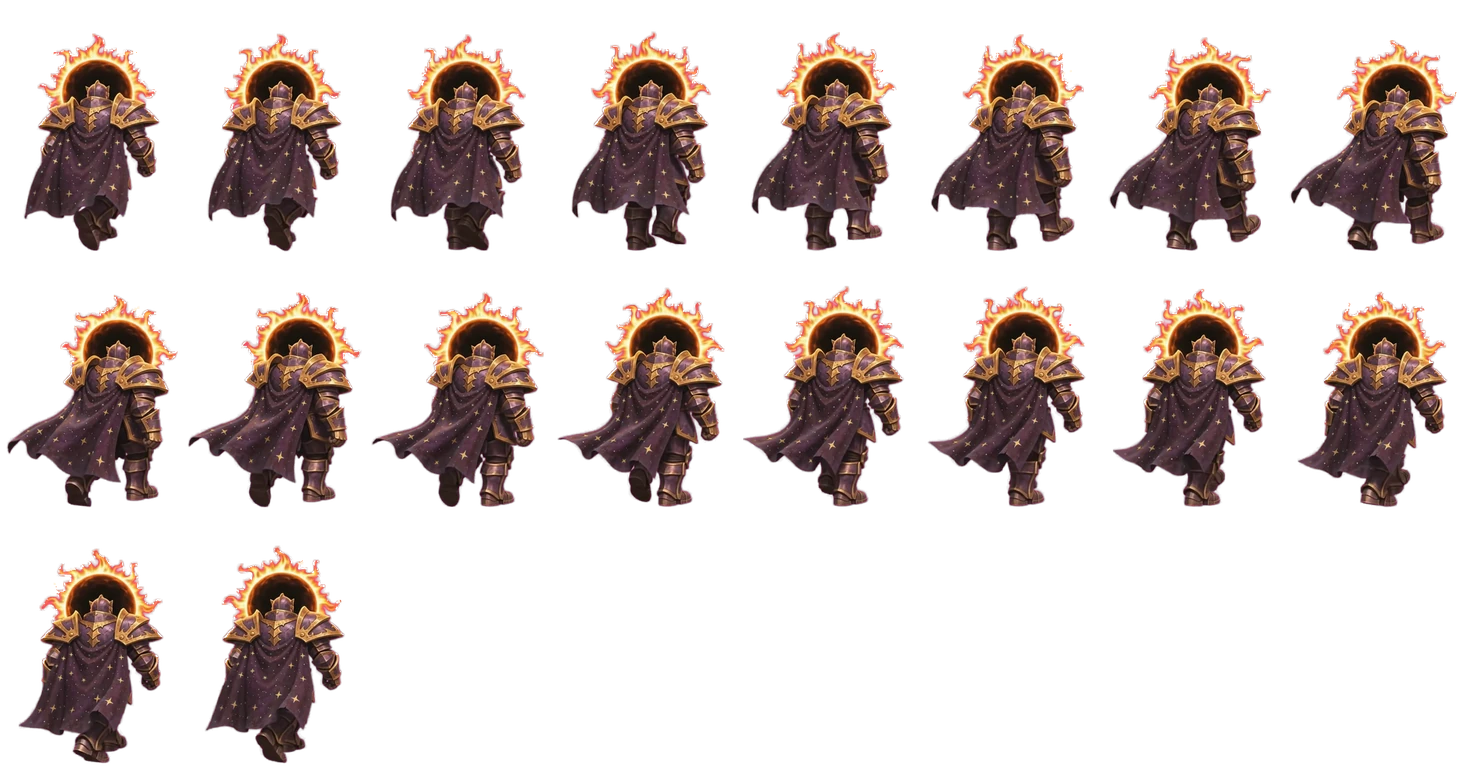
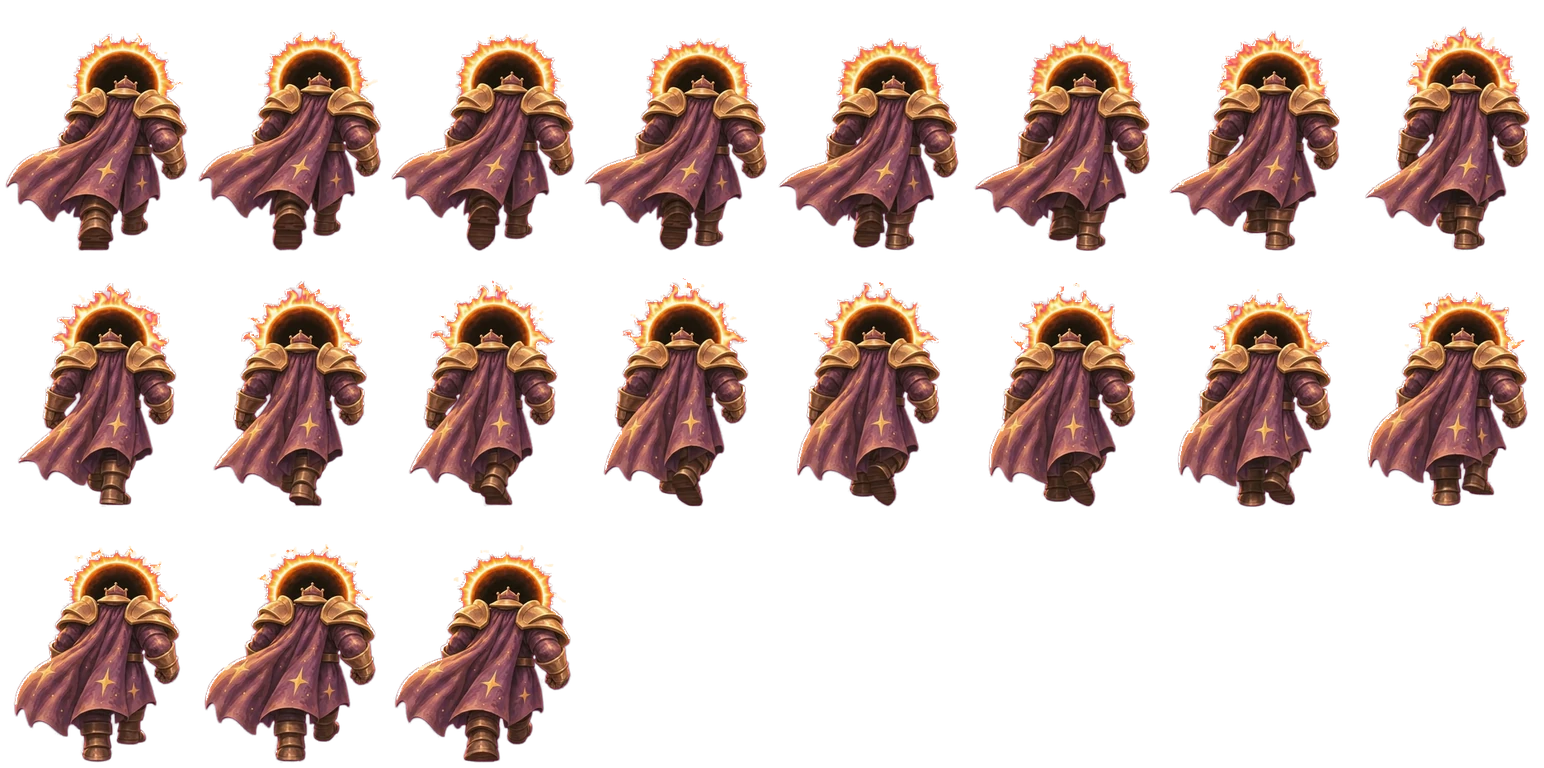
art(2d): Eclipse Sovereign walk-up from a dedicated Omni back-view clip (es-walk-back), plum cape, loop 6.4

diff --git a/tools/sprites/omni_bosses.py b/tools/sprites/omni_bosses.py
@@ -35,10 +35,10 @@ JOBS = {
                  '--play-fps', '12', '--fig-px', 'FIG:gw-down']),
     'es-down': (f'{ES}-walk-down', 'es-walk-2.mp4', ['--unmix', '--core', '3', '--glow', '--glow-reach', '12', '--fill', '0.875',
                 '--max-seconds', '8', '--loop-from', '0:150']),
-    # es-walk-1 starts on the front view and turns away; the back-view walk from 2.5 s on. Its cape
-    # came out navy, the front clip's is plum: --recolor turns the blue-violet band to plum.
-    'es-up': (f'{ES}-walk-up', 'es-walk-1.mp4', ['--start', '2.5', '--unmix', '--core', '3', '--glow', '--glow-reach', '12',
-              '--fill', '0.842', '--recolor', '235,325,55,1.35']),
+    # es-walk-back: a dedicated clip from the back start frame (2026-11-27); it replaces es-walk-1,
+    # which started on the front view, turned away and came out with a navy cape.
+    'es-up': (f'{ES}-walk-up', 'es-walk-back.mp4', ['--unmix', '--core', '3', '--glow', '--glow-reach', '12',
+              '--fill', '0.842', '--max-seconds', '8', '--loop-from', '0:150']),
     'es-attack': (f'{ES}-attack', 'es-attack.mp4', ['--max-seconds', '5', '--unmix', '--core', '3', '--glow', '--glow-reach', '140',
                   '--fixed-anchor', '--pick', '96,10,16,22,27,31,34,36,38,42,58,72,76,80,85,90', '--play-fps', '12', '--impact', '8']),
     # 102 / 106 dropped: the body fades into the magenta there and unmixes pink; 98 -> 110 reads as
